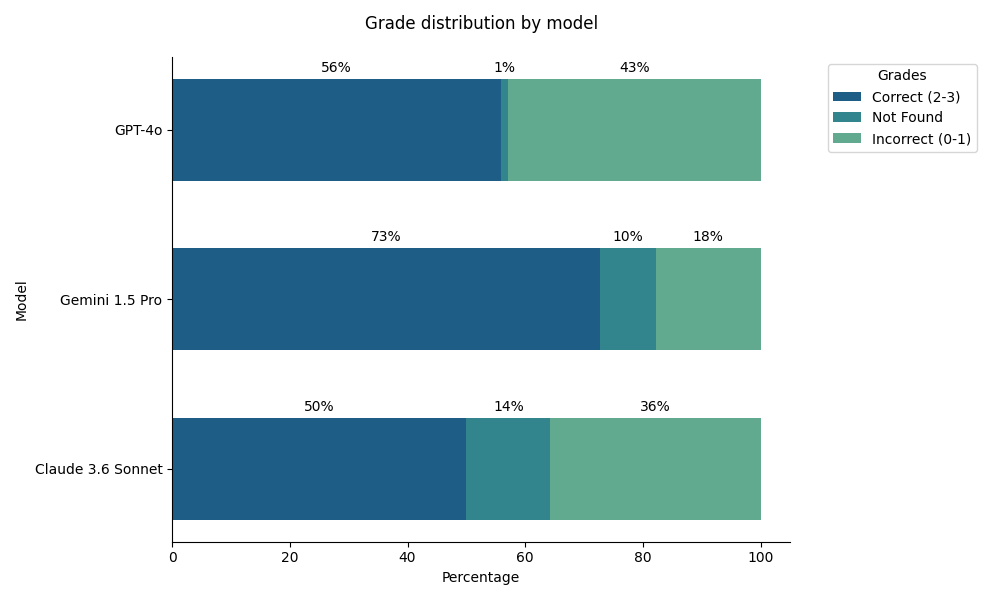
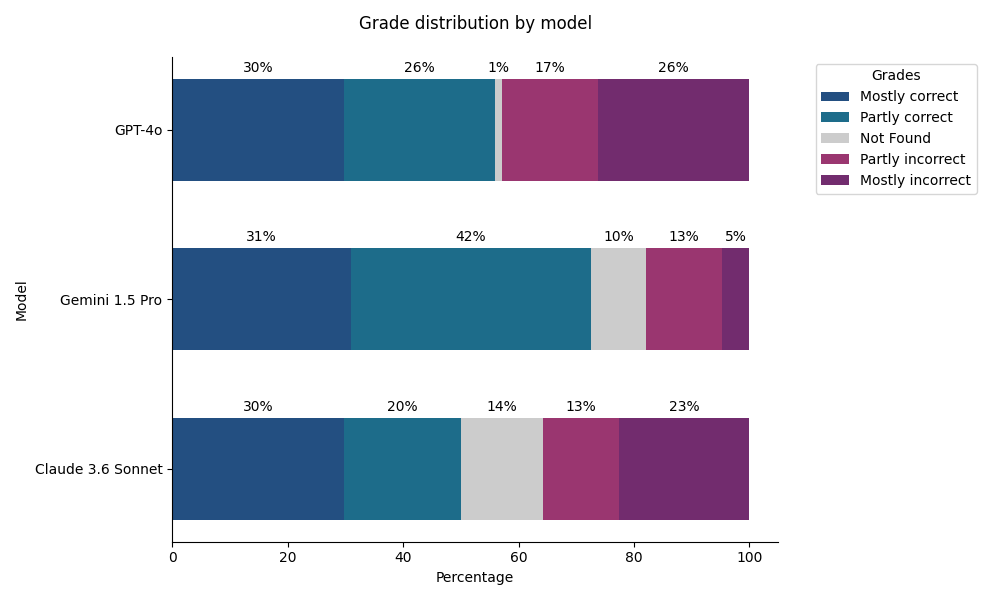
Better colouring for grade distribution, show 5 grades instead of 3

diff --git a/src/wimmelbench/stats.py b/src/wimmelbench/stats.py
@@ -184,14 +184,14 @@ def plot_grade_distribution(
 ) -> None:
     """Create a horizontal stacked bar chart showing grade distribution for each model."""
     models = list(grades_by_model.keys())
-    grade_labels = ["Correct (2-3)", "Not Found", "Incorrect (0-1)"]
     grade_mapping = {
+        3: "Mostly correct",
+        2: "Partly correct",
         -1: "Not Found",
-        0: "Incorrect (0-1)",
-        1: "Incorrect (0-1)",
-        2: "Correct (2-3)",
-        3: "Correct (2-3)",
+        1: "Partly incorrect",
+        0: "Mostly incorrect",
     }
+    grade_labels = list(grade_mapping.values())
 
     # Create percentage data
     percentages = []
@@ -212,7 +212,7 @@ def plot_grade_distribution(
     ax.spines["right"].set_visible(False)
 
     # Colors for each grade
-    colors = ["#1e5d86", "#33858d", "#61aa90"]
+    colors = ["#234f81", "#1d6c8a", "#cccccc", "#9a3670", "#722c6e"]
 
     # Keep track of left positions for each bar
     lefts = [0] * len(models)
